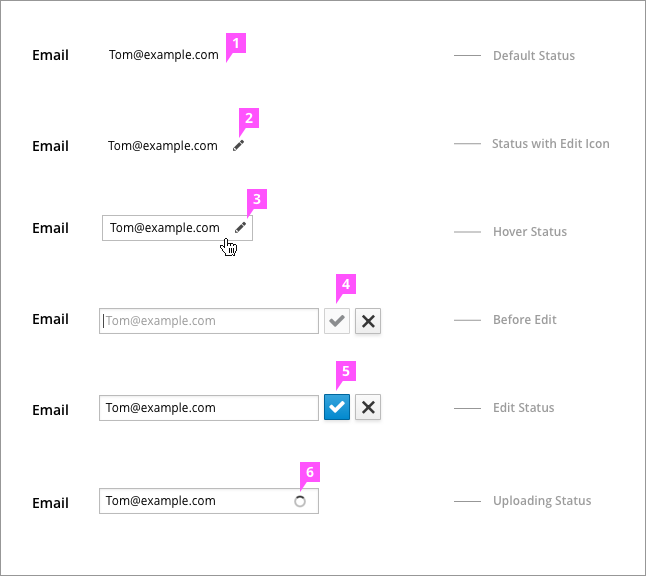
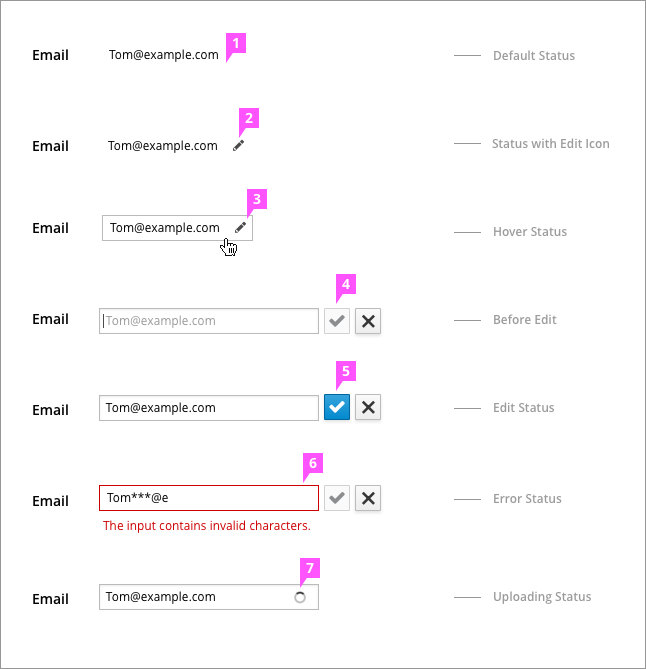
Update Error state to Form Inline Edit
Add two items: Select and error status.

diff --git a/pattern-library/forms-and-controls/inline-edit/design/design.md b/pattern-library/forms-and-controls/inline-edit/design/design.md
@@ -42,10 +42,12 @@
 
 1. **Default Status:** The Information is displayed as text text without edit icon.
 2. **Status with Edit Icon:** If the most information can not be edited in the form, show the edit icon to the right of the field that can be edited which will help user easily  identify editable fields.
-3. **Hover Status:** When the mouse hover on the editable information, the edit icon (if not already shown)  and field border will appear. Click the text or edit button to make the field editable. If the text is a link, only click the edit icon can be turn to edit status.
+3. **Hover Status:** When the mouse hover on the editable information, the edit icon (if not already shown)  and field border will appear. Click the text or edit button to make the field editable. If the text is a link, only click the edit icon can be turn to edit status. <br/>
+**Select:**  If the user clicks and holds, they should be able to select the text rather than transition into the edit mode.
 4. **Save and Cancel:** These buttons are available on the right end. Save is disabled until a change is made. If user selects Cancel the text will go back to original state.
 5. **Edit Status:** Save is activated.
-6. **Spinner:** sometimes the system needs user wait for a short time to update the data.
+6. **Error state:** The validation is preferred to verify in web front end than the back end. For example, the error message will show directly under the text field after user entering the invalid characters and error message. It will disappear after user correcting the error message.
+6. **Spinner:** Sometimes the system needs user wait for a short time to update the data.
 
 ### Form In-line Edit Patterns
 
